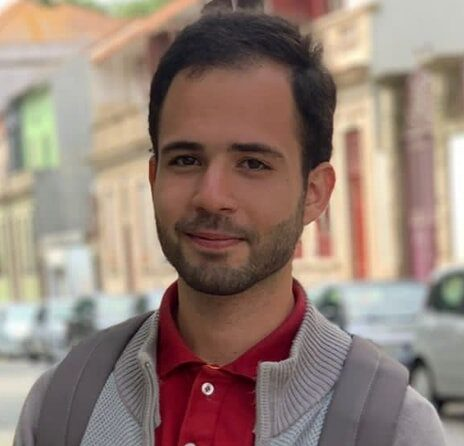
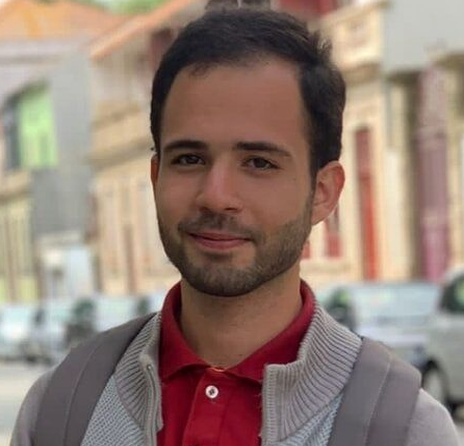
Updated profiles

diff --git a/assets/css/main.css b/assets/css/main.css
@@ -391,13 +391,15 @@ main { flex: 1 0 auto; }
 .person { text-align: center; }
 .person__link { text-decoration: none; display: block; }
 .person__media {
-  position: relative; width: 100%; aspect-ratio: 1;
-  border-radius: var(--r-lg); overflow: hidden;
+  position: relative; width: 100%; max-width: 200px; margin-inline: auto; aspect-ratio: 1;
+  border-radius: 50%; overflow: hidden;
   margin-bottom: var(--sp-3);
-  border: 1px solid var(--border);
+  border: 2px solid var(--border);
   background: var(--surface);
+  transform: translateZ(0);
+  transition: border-color var(--dur) var(--ease), box-shadow var(--dur) var(--ease), transform var(--dur) var(--ease);
 }
-.person__media img { width: 100%; height: 100%; object-fit: cover; }
+.person__media img { width: 100%; height: 100%; object-fit: cover; border-radius: 50%; }
 .person__media--ph {
   background: linear-gradient(145deg, var(--ff-purple-60), var(--ff-magenta-60));
   border-color: transparent;
@@ -433,7 +435,11 @@ main { flex: 1 0 auto; }
   opacity: 1;
   transform: scale(1.15);
 }
-.person__link:hover .person__media { border-color: var(--accent); box-shadow: var(--shadow-md); }
+.person__link:hover .person__media {
+  border-color: var(--accent);
+  box-shadow: var(--shadow-md);
+  transform: scale(1.03);
+}
 .person__n { font-size: var(--fs-base); font-weight: 700; }
 .person__n--tba { color: var(--text-muted); font-weight: 600; font-style: italic; }
 .person__r { font-size: var(--fs-sm); color: var(--text-muted); }
@@ -536,11 +542,15 @@ main { flex: 1 0 auto; }
 /* ---------- Partners ---------------------------------------------------- */
 /* Sizes — edit here.  The logo shrinks to fit inside its tile, minus the padding. */
 .logos {
-  --tile-w: 240px;  --tile-h: 130px;  --tile-pad: var(--sp-4);   /* normal categories */
+  --tile-w: 220px;  --tile-h: 115px;  --tile-pad: var(--sp-3);   /* balanced normal categories */
   --name-size: var(--fs-md);                                     /* name shown when there is no logo */
 }
 .logos--lg {
-  --tile-w: 420px;  --tile-h: 260px;  --tile-pad: var(--sp-5);   /* categories with size: "lg" */
+  --tile-w: 280px;  --tile-h: 140px;  --tile-pad: var(--sp-4);   /* official partners */
+}
+.logos--sm,
+[data-group="program"] .logos {
+  --tile-w: 180px;  --tile-h: 95px;   --tile-pad: 0.6rem 0.9rem; /* program contributors */
 }
 
 .logos { display: flex; flex-wrap: wrap; gap: var(--sp-5); align-items: center; justify-content: center; }
@@ -548,15 +558,42 @@ main { flex: 1 0 auto; }
 .logos a, .logos div {
   display: flex; align-items: center; justify-content: center;
   width: var(--tile-w); max-width: 100%; height: var(--tile-h); padding: var(--tile-pad);
-  background: #fff; border: 1px solid var(--border); border-radius: var(--r-md);
+  background: #ffffff; border: 1px solid var(--border); border-radius: var(--r-lg);
+  box-shadow: 0 2px 10px rgba(0, 0, 0, 0.05);
+  transition: transform var(--dur) var(--ease), box-shadow var(--dur) var(--ease), border-color var(--dur) var(--ease);
 }
-.logos img { max-width: 100%; max-height: 100%; width: auto; height: auto; min-width: 0; object-fit: contain; }
+.logos img {
+  max-width: 86%; max-height: 72%; width: auto; height: auto; min-width: 0; object-fit: contain;
+  transition: transform var(--dur) var(--ease);
+}
 .logos__name { font-size: var(--name-size); font-weight: 700; color: #1a1a1a; text-align: center; }
-.logos a:hover { border-color: var(--accent); box-shadow: var(--shadow-md); }
+.logos a:hover {
+  border-color: var(--accent);
+  box-shadow: 0 8px 24px rgba(139, 63, 252, 0.22);
+  transform: translateY(-2px);
+}
+.logos a:hover img { transform: scale(1.04); }
+
+:root[data-theme="dark"] .logos a,
+:root[data-theme="dark"] .logos div {
+  background: #fcfcfd;
+  border-color: rgba(255, 255, 255, 0.15);
+  box-shadow: 0 4px 18px rgba(0, 0, 0, 0.4);
+}
+@media (prefers-color-scheme: dark) {
+  :root:not([data-theme="light"]) .logos a,
+  :root:not([data-theme="light"]) .logos div {
+    background: #fcfcfd;
+    border-color: rgba(255, 255, 255, 0.15);
+    box-shadow: 0 4px 18px rgba(0, 0, 0, 0.4);
+  }
+}
 
 .partners { display: grid; gap: var(--sp-8); }
 /* Homepage band: smaller tiles than the partners page. */
-.partners--home .logos--lg { --tile-w: 300px; --tile-h: 180px; --tile-pad: var(--sp-4); }
+.partners--home .logos--lg { --tile-w: 220px; --tile-h: 120px; --tile-pad: var(--sp-3); }
+.partners--home .logos--sm,
+.partners--home [data-group="program"] .logos { --tile-w: 155px; --tile-h: 80px; --tile-pad: var(--sp-2); }
 .home-partners__more { margin-top: var(--sp-6); display: grid; justify-items: center; gap: var(--sp-4); text-align: center; color: var(--text-muted); }
 .home-partners__more p { max-width: 52ch; }
 .partner-group__t {

diff --git a/assets/js/main.js b/assets/js/main.js
@@ -213,9 +213,10 @@
       if (only.length && only.indexOf(g.id) < 0) return "";
       var items = SPONSORS.filter(function (x) { return x.group === g.id; });
       if (!items.length) return "";
-      return '<div class="partner-group reveal">' +
+      var sizeClass = g.size ? " logos--" + g.size : "";
+      return '<div class="partner-group reveal" data-group="' + esc(g.id) + '">' +
         '<h2 class="partner-group__t">' + esc(pick(g.title)) + "</h2>" +
-        '<div class="logos' + (g.size === "lg" ? " logos--lg" : "") + '">' + items.map(tile).join("") + "</div></div>";
+        '<div class="logos' + sizeClass + '">' + items.map(tile).join("") + "</div></div>";
     }).join("");
   }
 

diff --git a/assets/js/content.js b/assets/js/content.js
@@ -520,7 +520,7 @@ const PARTNER_GROUPS = [
   { id: "supporters", size: "lg", title: { fr: "Partenaires officiels",                en: "Official Partners" } },
   { id: "mbp",                    title: { fr: "Avec le soutien de",                   en: "With Support From" } },
   { id: "tech",                   title: { fr: "Partenaire technologique et scientifique", en: "Technology & Knowledge Partner" } },
-  { id: "program",                title: { fr: "Contributeurs au programme",            en: "Program Contributors" } }
+  { id: "program",    size: "sm", title: { fr: "Contributeurs au programme",            en: "Program Contributors" } }
 ];
 
 const SPONSORS = [
